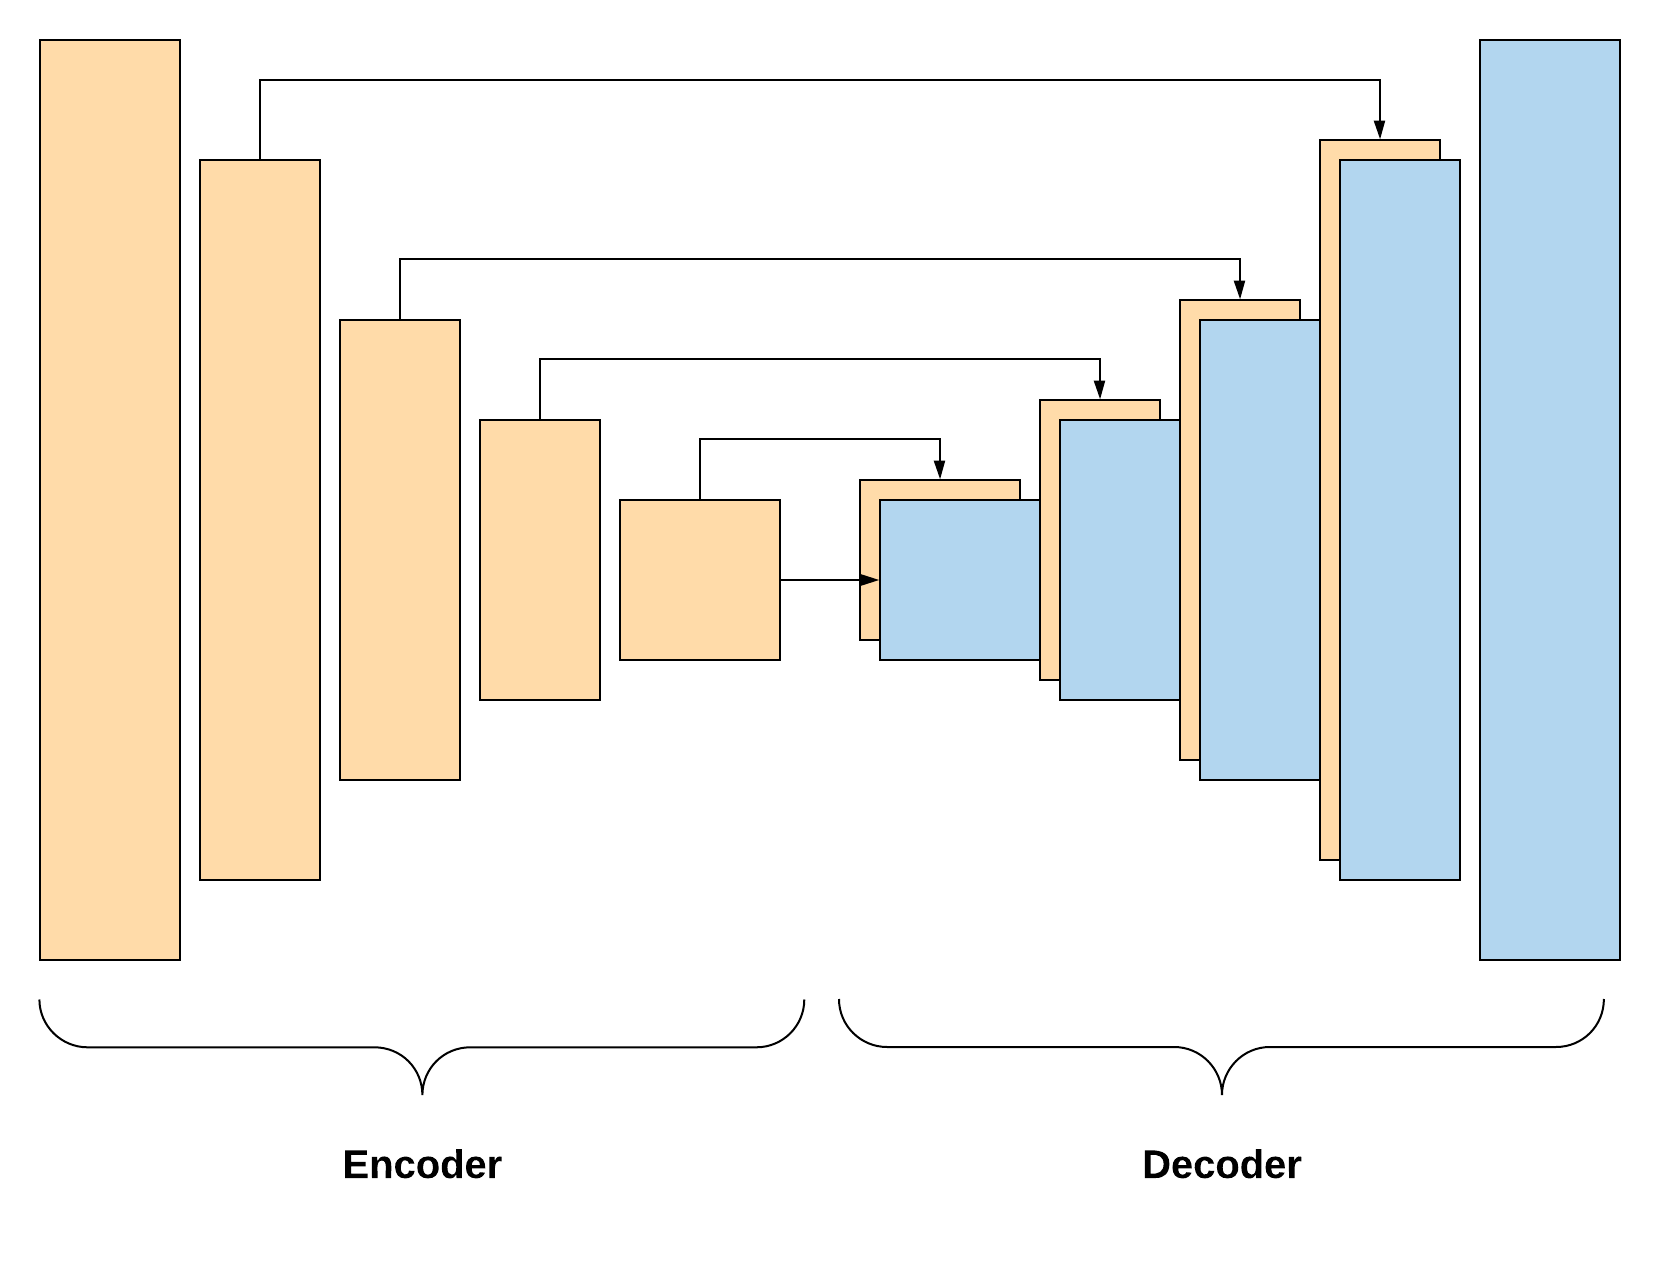
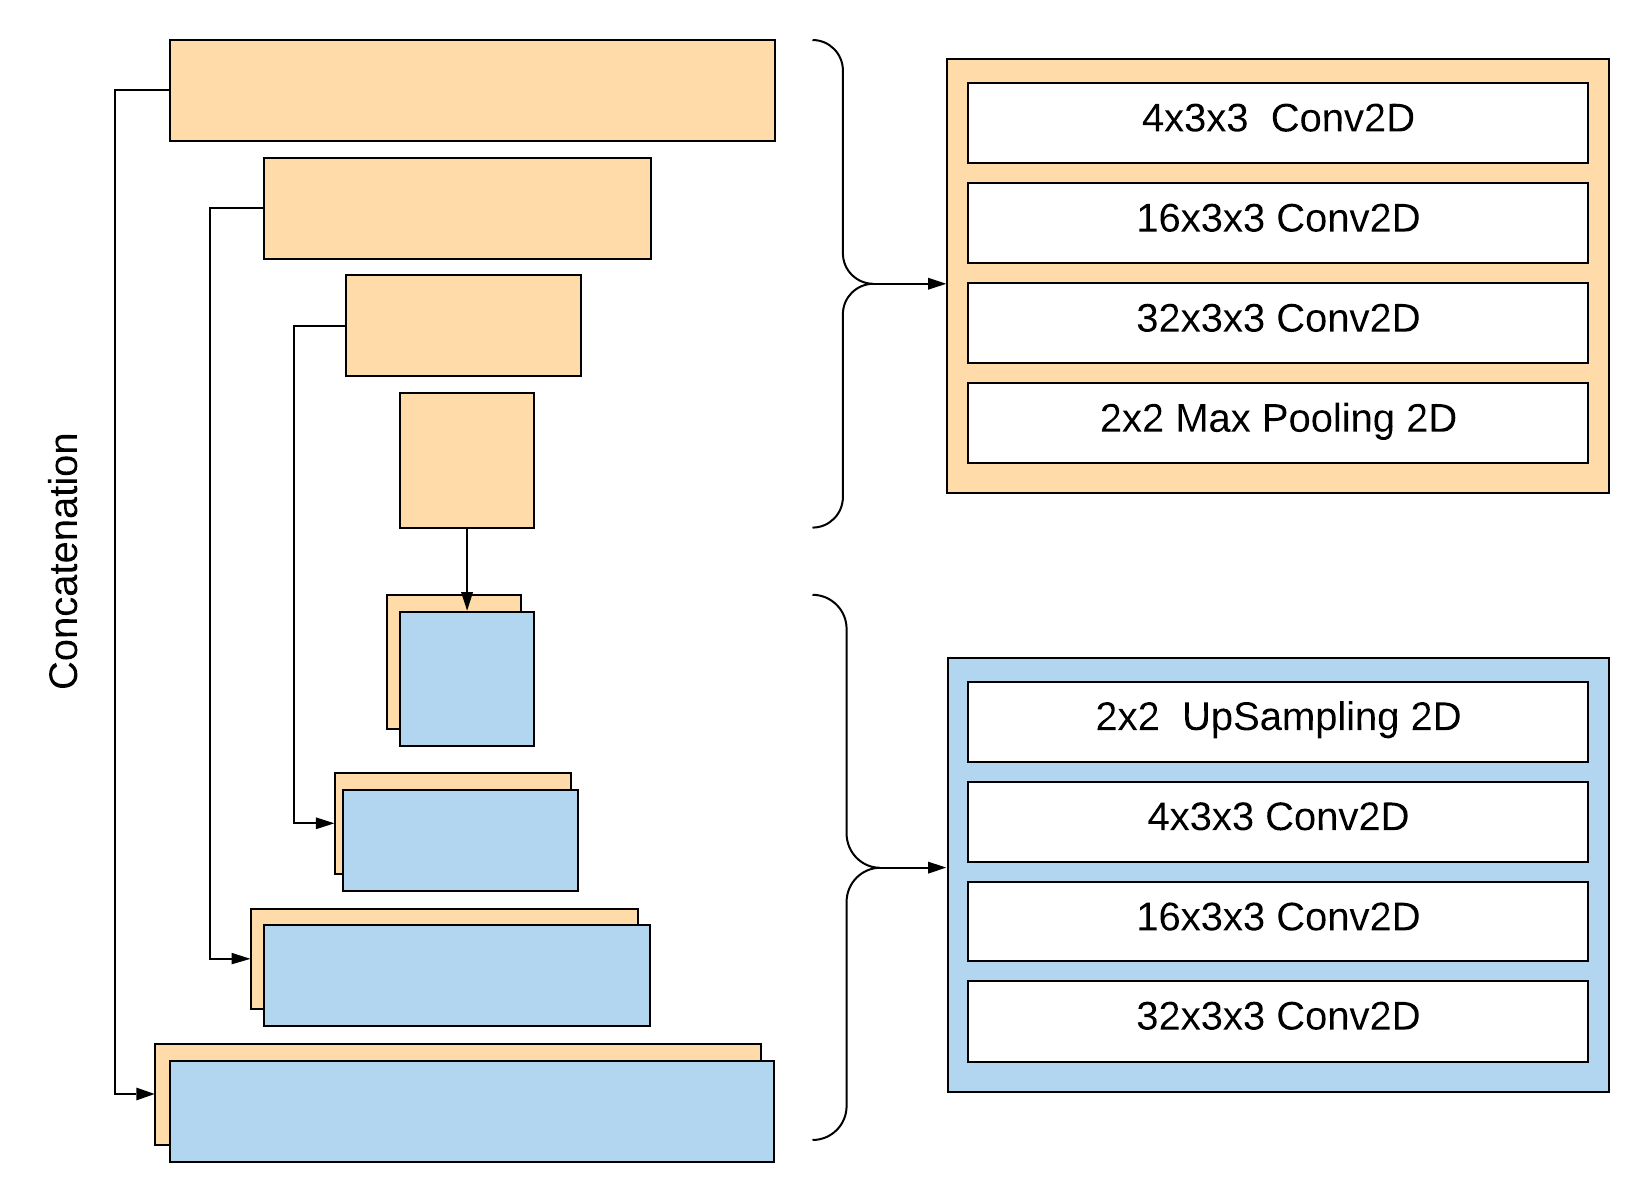
10

diff --git a/Chapters/Chapter5.tex b/Chapters/Chapter5.tex
@@ -26,7 +26,6 @@ Therefore, we have two model \textbf{A1} and \textbf{A2} for validating the prop
 
 
 \subsection{Approach 1 (A1) - U Net Style Network}
-U-Net (\textbf{A1}) architecture as shown in Fig \ref{fig:A1-U-NetArchetecture} is built upon simple idea of using de-convolution layer  \footnote{not to be confused with the nomenclature, there are various names for de-convolution such as up-sampling layers or transposed convolution layer used by tensorflow and keras (\url{www.tensorflow.org/})} for up scaling the learnt feature and regeneration of depth maps. Hence the decoder block comprises of transposed 2D convolution layers which have the same dimension as the kernal size of encoder block. This means number of layers in encoder and decoder are the sample that's why the name U-Net. We use \textbf{A1} architecture since its easy to configure and understand how the up sample of network can be done. We \nadacn{Some more spec later}
 
 \begin{figure}[t]
     \centering
@@ -35,16 +34,18 @@ U-Net (\textbf{A1}) architecture as shown in Fig \ref{fig:A1-U-NetArchetecture} 
     \label{fig:A1-U-NetArchetecture}
 \end{figure}{}
 
+U-Net (\textbf{A1}) architecture as shown in Fig \ref{fig:A1-U-NetArchetecture} is built upon simple idea of using upsampling layer or de-convolution layer  \footnote{not to be confused with the nomenclature, there are various names for de-convolution such as up-sampling layers or transposed convolution layer used by tensorflow and keras (\url{www.tensorflow.org/})} for up scaling the learnt feature and regeneration of depth maps. Hence the decoder block comprises of transposed 2D convolution layers which have the same dimension as the kernal size of encoder block. This means number of layers in encoder and decoder are the sample that's why the name U-Net. We use \textbf{A1} architecture since its easy to configure and understand how the up sample of network can be done. Another advantage is training such a small network is faster but it is a challenge is the network can learn the low level features. 
+
+\textbf{A1} consists of 4 blocks of encoder and decoder part. Each block of encoder consists of 4 layers, 3 layers of 2D Convolutions and 2D max pooling layer of size 2$\times$2 at the end of each block. We designed the 3 convolutions layer with the increasing order of number of filter 4, 16 and 32 with kernel size of 3$\times$3. In the similar way in each decoder block we have 4 layers, starting with a up-sampling layer with kernel size if 2$\times$2 which means the up scaling of the image is in the factor of 2. Nearest neighbor interpolation method used by the up-sampling layer \footnote{\url{www.tensorflow.org/api_docs/python/tf/keras/layers/UpSampling2D}} implemented by keras layer. Towards the end each decoder block as 3 convolution 2D stacked in the similar way as encoder blocks. Each decoder block is concatenated with relative encoder block with has same dimension as shown in fig. \ref{fig:A1-U-NetArchetecture} with arrow marks. The dimension of encoder and decoder block output tensors are kept in symmetrical. This can be achieved by having same kernel size of max pooling at encoder part and up sampling layer at decoder, hence the symmetry in the emcoder and decoder layers. The last output layer comprises of Convolution 2D layer of 1$\times$1 with sigmoid activation. Also last layer has no stride to keep the dimension same as the input. 
+This model has input dimension of (batch size$\times$480$\times$640$\times$3) and output dimension of (480$\times$640$\times$1). 
+
+
 
 \subsection{Approach 2 (A2) - DenseNet backbone}
 
-Fig. \ref{fig:A1-U-NetArchetecture} shows an overview of our encoder-decoder network for depth estimation model proposed by Alhashim et. al. \cite{Alhashim2018}. The input RGB image is fed to the DenseNet-169 \cite{huang2017densely} network which is pretrained on ImageNet \cite{deng2009imagenet}. The output from the DenseNet block is then fed to a successive series of up-sampling layers.The decoder part is trained on the 120,000 images of NYU v2 depth dataset.  We have two option in order to reconstruct the final depth map at half the input resolution or at full resolution, this can be achived just by adding one more bi-linear upsampling layer at the end by the factor of 2 which gives us the resolution of $480 \times 640$.  For all the experiment we only used half resolution for ease of use and fast training.  Also the decoder does not contain any Batch Normalization or other advanced sub multi task layers as seen in the recent state-of-the-art methods in section \ref{Chapter3:RelatedWork_NNModel}. Backbone DenseNet architecture is designed in a feed forward fashion within a dense block or in other words such a a way that each layer is directly connected to every other layer. There are two types of DenseNet one for smaller images and another for lager images which is called DenseNetImageNet. 
-
-We use this model and use transfer learning and train on Structure dataset which is described in the section \ref{}
-
 \begin{figure}[h]
     \centering
-    \includegraphics[width = 14cm,  height = 8.5cm]{Figures/A2.png}
+    \includegraphics[width = 15cm,  height = 10cm]{Figures/A2.png}
     \caption{DenseNet}
     \label{fig:A2-DenseNet-arch}
 \end{figure}{}
@@ -52,6 +53,14 @@ We use this model and use transfer learning and train on Structure dataset which
 
 
 
+\textbf{A2} as shown in fig. \ref{fig:A2-DenseNet-arch} shows an overview of our second approach for depth estimation. We adapted the idea proposed by Alhashim et. al. \cite{Alhashim2018}. The basic idea was to use DenseNet as backbone (encoder). The input RGB image is fed to the DenseNet-169 \cite{huang2017densely} network which is pretrained on ImageNet \cite{deng2009imagenet}.  Backbone DenseNet architecture is designed in a feed forward fashion within a dense block or in other words such a a way that each layer is directly connected to every other layer. ImageNet is a large database of images which was in turn build upon WorldNet which is organized in a hierarchical manner, which means the images are trained and clustered according to carious classes which give a good hierarchical tree and sub-tree format for classification or clustering. Another great advantage of this net is its versatility of the classes ranging from mammals, vehicles, birds to furniture with 12 subtree and giving 5247 category at the time of this paper by Deng et. al.\ref{deng2009imagenet}. ImageNet claims to have a order of 50 million images and an average of 5000 image per node \footnote{\url{http://www.image-net.org/}}. ImageNet is also good for object recognition, classification and also clustering problems. Due to such versatility ImageNet can give a us a good generalisation of the physical structure from a 2D image which is very important for our task. This also has proven to give state of the results by the model proposed by Alhashim et. al. \cite{Alhashim2018}. 
+
+
+The design of this network is in such a way that the output from the DenseNet block is  fed to a successive series of up-sampling layers. The decoder has 5 Bilinear up-sampling blocks. \(4^{th}\) block is designed in a way that it give the output resolution half of its input, which is 230$\times$320$\times$1 for input size of RGB image 460$\times$640$\times$3. The \(5^{th}\) block has up-sampling factor of 2 which gives us full resolution same as input. In all our experiments we use only 4 blocks and in post processing we up sample by the factor 2 to get full resolution. This saves some computational time. The decoder part is trained on the 120,000 images of NYU v2 depth dataset. Also the decoder does not contain any Batch Normalization or other advanced sub multi task layers as seen in the recent state-of-the-art methods in section \ref{Chapter3:RelatedWork_NNModel}.
+
+Each block of decoder comprises of 4 layers, starting with up-sampling by Bilinear with leanera interpolatin method. followed by concatenation operation and 2 convolutions 2D layers. The number of filters for these convolutions layer is decided by the number of filter obtained from the encoder layer which can be given by \(D_n =  {E_m} / {2^n}\) where \(D_n\) is number of filters at decoder block \(n\) and \(E_m\) is the number of filter present in the layer which is concatenated from encoder. The kernel size of the 2 convectional layers are of size (3$\times$3). The model proposed by  \cite{Alhashim2018} has target input dimension of 460$\times$640$\times$3 for RGB image and  dimension of 230$\times$320$\times$1 for ground truth label and we acquire the sample principles.  
+
+In this approach we also use the transfer learning by obtaining weights which was provided by Alhashim et. al. \cite{Alhashim2018}. 
 
 
 

diff --git a/Chapters/Chapter1.tex b/Chapters/Chapter1.tex
@@ -28,7 +28,7 @@ Scene understanding is long existing and an interesting area for computer vision
 
 As a solution there are many techniques used to derive depth information which can be categorized into 3. First, dual camera method \cite{li2009dual} second,  dual pixel method \cite{martinello2015dual, choi2017all} and  third sensors based methods \cite{salvi2004pattern}. In extension various methods of estimating depth from focus \cite{grossmann1987depth}, stereo vision \cite{bulthoff1988integration}, and depth from motion \cite{ullman1979interpretation} where also applied. We will discuss more in detail in section \ref{Chapter3:RelatedWork_EarlyApproach}. In this study we are more interested in sensor based methods and there are already some affordable sensing based-technologies for different application were developed. These types of sensors are called structural-light-based (SLB) sensors \cite{salvi2004pattern}, which is based on the projection of structured light \cite{zhang2012microsoft}. Some of the examples for SLB depth sensors are Kinect by Microsoft, Structure Sensor by Occipital, BlasterX Senz3D by Intel Realsense, Leap Motion Sensors by Leap Motion \cite{marin2014hand} and more are available \cite{mal2018sparse}. These devices have proven to have great impact in these areas but its comes with a trade off with ease of use at consumer application end we will discuss more in section \ref{Chapter4:Dataset}. We will be more focused on depth estimation method based on SLB sensors, more specifically Structure Sensor by Occipital in the entire work.\\
 
-Meanwhile as we know there is a remarkable interest grown in brain style computation and Artificial Neural Network (ANNs) is one of its derivative. ANNs have shown great versatility in the field of detection, classification and prediction. ANNs are used for many applications ranging from image processing \cite{guyon1991applications} , audio signal analysis \cite{bourlard1993continuous}, medical \cite{baxt1990use}, business science \cite{widrow1994neural}, music \cite{nadar2019towards} and many more \cite{zhang2000neural}. It  need a careful processing and considerable domain knowledge for representing a raw data into acceptable form for feature learning process.\note{edit this line please, doesnt make sense} Another import aspect is which comes with brain style computation is hardware limitations towards computational complexity. But in recent days there are significant improvement in the heterogeneous computation \cite{mittal2015survey}. This also comes with difficulties to cope up with low cost and low power platforms for ANNs \cite{mittal2019survey}. \\
+Meanwhile as we know there is a remarkable interest grown in brain style computation and Artificial Neural Network (ANNs) is one of its derivative. ANNs have shown great versatility in the field of detection, classification and prediction. ANNs are used for many applications ranging from image processing \cite{guyon1991applications} , audio signal analysis \cite{bourlard1993continuous}, medical \cite{baxt1990use}, business science \cite{widrow1994neural}, music \cite{nadar2019towards} and many more \cite{zhang2000neural}. It  need a careful processing and considerable domain knowledge for representing a raw data into acceptable form for feature learning process.\note{edit this line please, doesnt make sense,}\nadacn{thanks, but Why? you did not understand? I mean to say ANNs have a large application and you need domain knowledge.. sinal processing is different than image processing.. you get it?} Another import aspect is which comes with brain style computation is hardware limitations towards computational complexity. But in recent days there are significant improvement in the heterogeneous computation \cite{mittal2015survey}. This also comes with difficulties to cope up with low cost and low power platforms for ANNs \cite{mittal2019survey}. \\
 
 
 
@@ -68,7 +68,7 @@ Secondly, existing solutions to depth estimation from a single image usually rel
 These two problems gives us a clear direction to formulates some of the specific questions to be answered in this work which is described below. 
 
 
-\section{Research question(s) and scientific contribution(s)}
+\section{Research questions and scientific contributions}
 %1 page: Hence, this thesis tries to answer the following research question(s):
 
 This work tries to address the following two questions:

diff --git a/Chapters/Chapter6.tex b/Chapters/Chapter6.tex
@@ -16,6 +16,9 @@
 %----------------------------------------------------------------------------------------
 In this chapter we have evaluated your system and presented a comparative results  based on different experimental setup discussed in section \ref{Chapter5:Methodology}. We have categorized our experiments into 3 different sections as shown in the table below \ref{table:Results_main} to investigate in three difference area. The table \ref{table:Results_main} lists all the experiments carried out for this study on depth estimation. We have 3 accuracy values based on different threshold namely (a1, a2, and a2) and two error metrics namely root mean square error (rms) and log\_10 error as mentioned in section. Experiments \textbf{E1} and \textbf{E2} where performed to understand the importance of structural dependency of depth maps and to test our proposed model against the state of the art system. In experiments \textbf{E3} and \textbf{E4} we validate the influence of different camera intrinsic properties over data from structure sensor, by this we can also see the influence of transfer learning even when trained on different dataset with different feature properties. Experiments \textbf{E5} and \textbf{E6} was carried out to study behaviour of probabilistic distribution over the invalid pixel which we call it as holes, this leads us to answer the question of efficient way for depth estimation.
  
+ Test data: 271 image
+ Train
+ 
 % Please add the following required packages to your document preamble:
 % \usepackage{multirow}
 \begin{table}[b]
@@ -24,8 +27,8 @@ In this chapter we have evaluated your system and presented a comparative result
 \textbf{\#} & \textbf{Model} & \multicolumn{3}{l}{\textbf{Accuracy}} & \multicolumn{2}{l}{\textbf{Error}} \\ \cline{3-7} 
                     &                        & a1       & a2       & a3      & RMSE         & log\_10      \\ \hline
 \multicolumn{7}{l}{\texttt{Influence of Structural Characteristics}}                                            \\ \hline
-\textbf{E1}                  &  \textbf{A1}               &          &          &         &             &              \\ \hline
-\textbf{E2}                  & \textbf{A2}                  &          &          &         &             &              \\ \hline
+\textbf{E1}                  &  \textbf{A1}  & 0.22         & 0.43          &  0.61       & 0.34            &   0.001           \\ \hline
+\textbf{E2}                  & \textbf{A2}  &    0.60  & 0.859 & 0.93       &   0.19          &0.11              \\ \hline
 \multicolumn{7}{l}{\texttt{Influence Of Transfer Learning}}                                                                   \\ \hline
 \textbf{E3}                  & \textbf{A2\_Holes}              & 0.39   & 0.58   & 0.65  & 0.27      & 1.70       \\ \hline
 \textbf{E4}                  & \textbf{A2\_Holes} (Retrained) & 0.33   & 0.55   & 0.63  & 0.34      & 1.78       \\ \hline
@@ -47,6 +50,24 @@ In this section we have investigated the Influence of Structural Characteristics
  
  Hence, we have a robust architecture for depth map estimation which intern helps for a better 
  
+ \begin{figure}
+\settoheight{\tempdima}{\includegraphics[width=.32\linewidth]{example-image-a}}%
+\centering\begin{tabular}{@{}c@{ }c@{ }c@{ }c@{}}
+&\textbf{RGB} & \textbf{Truth} & \textbf{Predticted} \\
+\rowname{E1 (a)}&
+\includegraphics[width=.3\linewidth]{Figures/results/s1_a1/u0RAW_RGB.png}&
+\includegraphics[width=.3\linewidth]{Figures/results/s1_a1/u0Truth.png}&
+\includegraphics[width=.3\linewidth]{Figures/results/s1_a1/u0Predicted.png}\\[-1ex]
+\rowname{E2 (b)}&
+\includegraphics[width=.3\linewidth]{Figures/results/s1_a1/0RAW_RGB.png}&
+\includegraphics[width=.3\linewidth]{Figures/results/s1_a1/0Truth.png}&
+\includegraphics[width=.3\linewidth]{Figures/results/s1_a1/0Predicted.png}\\[-1ex]
+\end{tabular}
+\caption{\textbf{Influence of Structural Characteristics:} All the \textbf{E3} methods are in different  }%
+\label{figure1}
+\end{figure}
+
+
  
 
  \section{Influence Of Transfer Learning}
